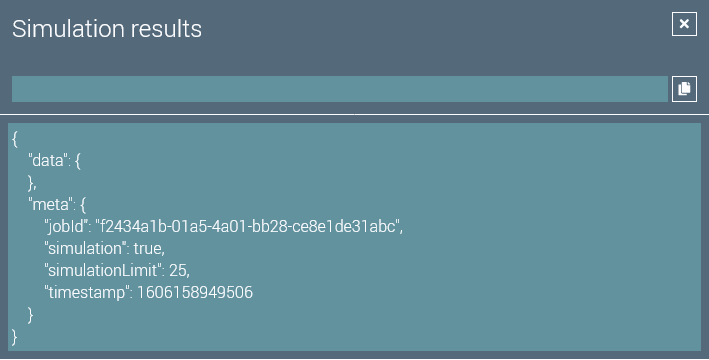
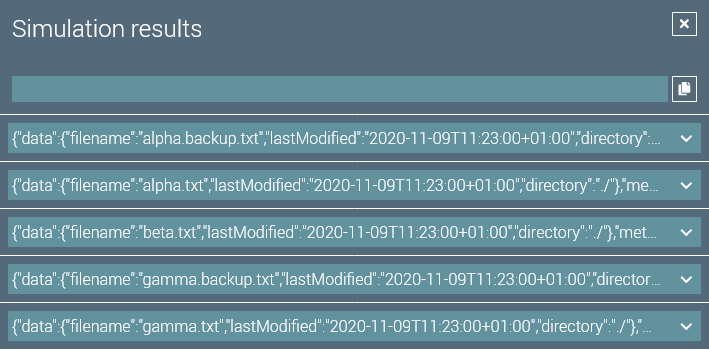
Simulation results are now shown in an accordion component.

diff --git a/frontend/src/components/jobs/simulation-result.vue b/frontend/src/components/jobs/simulation-result.vue
@@ -1,30 +1,74 @@
 <template>
     <div class="simulation-results">
-        <vue-json-pretty :data="data"
-                         :deep="2"
-                         :showLength="true"
-                         :showLine="false"
-                         v-on:click="(path) => $emit('node-selected', path)">
-        </vue-json-pretty>
+        <div v-if="showJson">
+            <layout-row>
+                <vue-json-pretty
+                    slot="left"
+                    :data="data"
+                    :deep="2"
+                    :showLength="true"
+                    :showLine="false"
+                    v-on:click="(path) => selectOrClose(path)">
+                </vue-json-pretty>
+                <icon-button slot="right" icon="chevron-up" v-on:clicked="showJson = false" :data-e2e="'hide-sim-results-json-' + index"/>
+            </layout-row>
+        </div>
+        <div v-else class="placeholder">
+            <div>{{ placeholderJson }}</div>
+            <icon-button icon="chevron-down" v-on:clicked="showJson = true" :data-e2e="'show-sim-results-json-' + index"/>
+        </div>
     </div>
 </template>
 
 <script>
 import VueJsonPretty from 'vue-json-pretty'
 import '../../assets/vue-json-pretty.styles.css'
+import IconButton from "@/components/common/icon-button";
+import LayoutRow from "@/components/common/layout-row";
 
 export default {
     name: "simulation-result",
-    components: {VueJsonPretty},
-    props: ['data']
+    components: {LayoutRow, IconButton, VueJsonPretty},
+    props: ['data', 'index'],
+    data: function () {
+        return {
+            showJson: false
+        };
+    },
+    methods: {
+        selectOrClose: function (path) {
+            if (path !== 'root') {
+                this.$emit('node-selected', path);
+            }
+        }
+    },
+    computed: {
+        placeholderJson: function () {
+            return JSON.stringify(this.data);
+        }
+    }
 }
 </script>
 
 <style scoped>
 
 .simulation-results {
-    padding: .25em;
     background-color: var(--color-foreground);
+}
+
+.placeholder {
+    display: flex;
+    padding: .25em;
+}
+
+.placeholder div {
+    white-space: nowrap;
+    overflow: hidden;
+    text-overflow: ellipsis;
+}
+
+.placeholder button {
+    margin-left: 1em;
 }
 
 </style>

diff --git a/e2e/cypress/integration/documentation/user-images-job.spec.js b/e2e/cypress/integration/documentation/user-images-job.spec.js
@@ -112,7 +112,8 @@ describe('Creates user doc job images.', () => {
     });
 
     describe('Creates Job-Editor images.', () => {
-        it('Create job-editor.png, job-editor-configurator.png, job-editor-navigator.png, job-editor-executions.png and job-editor-simulation-results.png', function () {
+        it.only('Create job-editor.png, job-editor-configurator.png, job-editor-navigator.png, job-editor-executions.png, '
+            + 'job-editor-simulation-results.png and job-editor-simulation-results-json.png', function () {
             cy.openJobEditor(jobCopyNewFilesKebap);
 
             cy.simulateJob();
@@ -129,9 +130,19 @@ describe('Creates user doc job images.', () => {
                 .should('be.visible')
                 .screenshot(targetDir + 'job-editor-navigator')
 
+            cy.selectAction('list-files');
+
             cy.get('[data-e2e=job-editor-simulation-results]')
                 .should('be.visible')
                 .screenshot(targetDir + 'job-editor-simulation-results')
+
+            cy.get('[data-e2e=show-sim-results-json-1]')
+                .should('be.visible')
+                .click();
+
+            cy.get('[data-e2e=simulation-results-container-1]')
+                .should('be.visible')
+                .screenshot(targetDir + 'job-editor-simulation-results-json');
 
             cy.get('[data-e2e=show-job-executions-button]')
                 .should('be.visible')

diff --git a/frontend/src/components/jobs/simulation-result-container.vue b/frontend/src/components/jobs/simulation-result-container.vue
@@ -28,8 +28,8 @@
             </div>
             <div v-else-if="selectedSimulationResults.results.length > 0 && !selectedSimulationResults.errorCause"
                  v-for="(result, index) in selectedSimulationResults.results" v-bind:key="index"
-                 class="simulation-result-container spacer-top">
-                <simulation-result :data="result" v-on:node-selected="createMustacheSelector"></simulation-result>
+                 class="simulation-result-container spacer-top" :data-e2e="'simulation-results-container-' + index">
+                <simulation-result :data="result" :index="index" v-on:node-selected="createMustacheSelector"></simulation-result>
             </div>
             <div v-else-if="selectedSimulationResults.errorCause" class="simulation-result-container spacer-top">
         <pre class="error-bg">

diff --git a/documentation/docs/user/job-editor.md b/documentation/docs/user/job-editor.md
@@ -83,6 +83,10 @@ On the right of the page, the simulation results are displayed.
 
 Each data item of the simulated job run is shown as it is supplied to the selected component.
 
+Clicking on a data item's arrow opens the item's JSON in a tree view.
+
+![job editor simulation results json](./images/job/job-editor-simulation-results-json.png)
+
 By clicking on keys in the result JSON, a mustache template for the respective key is entered into the input above the simulation results.
 
 A click on ![copy to clipboard button](./images/job/copy-to-clipboard-button.png) copies the mustache template to the clipboard.

diff --git a/documentation/docs/user/changelog.md b/documentation/docs/user/changelog.md
@@ -7,6 +7,7 @@
 - Referencing jobs in the connector editor are now ordered alphabetically.
 - Errors during simulated job executions are now shown in the job navigator.
 - Simulation results of the last action are added as 'stale' to newly created actions.
+- Simulation results are now shown in an accordion component.
 
 ## Version 0.2.5
 - Added 'mustache-selector' for JSON simulation results.
